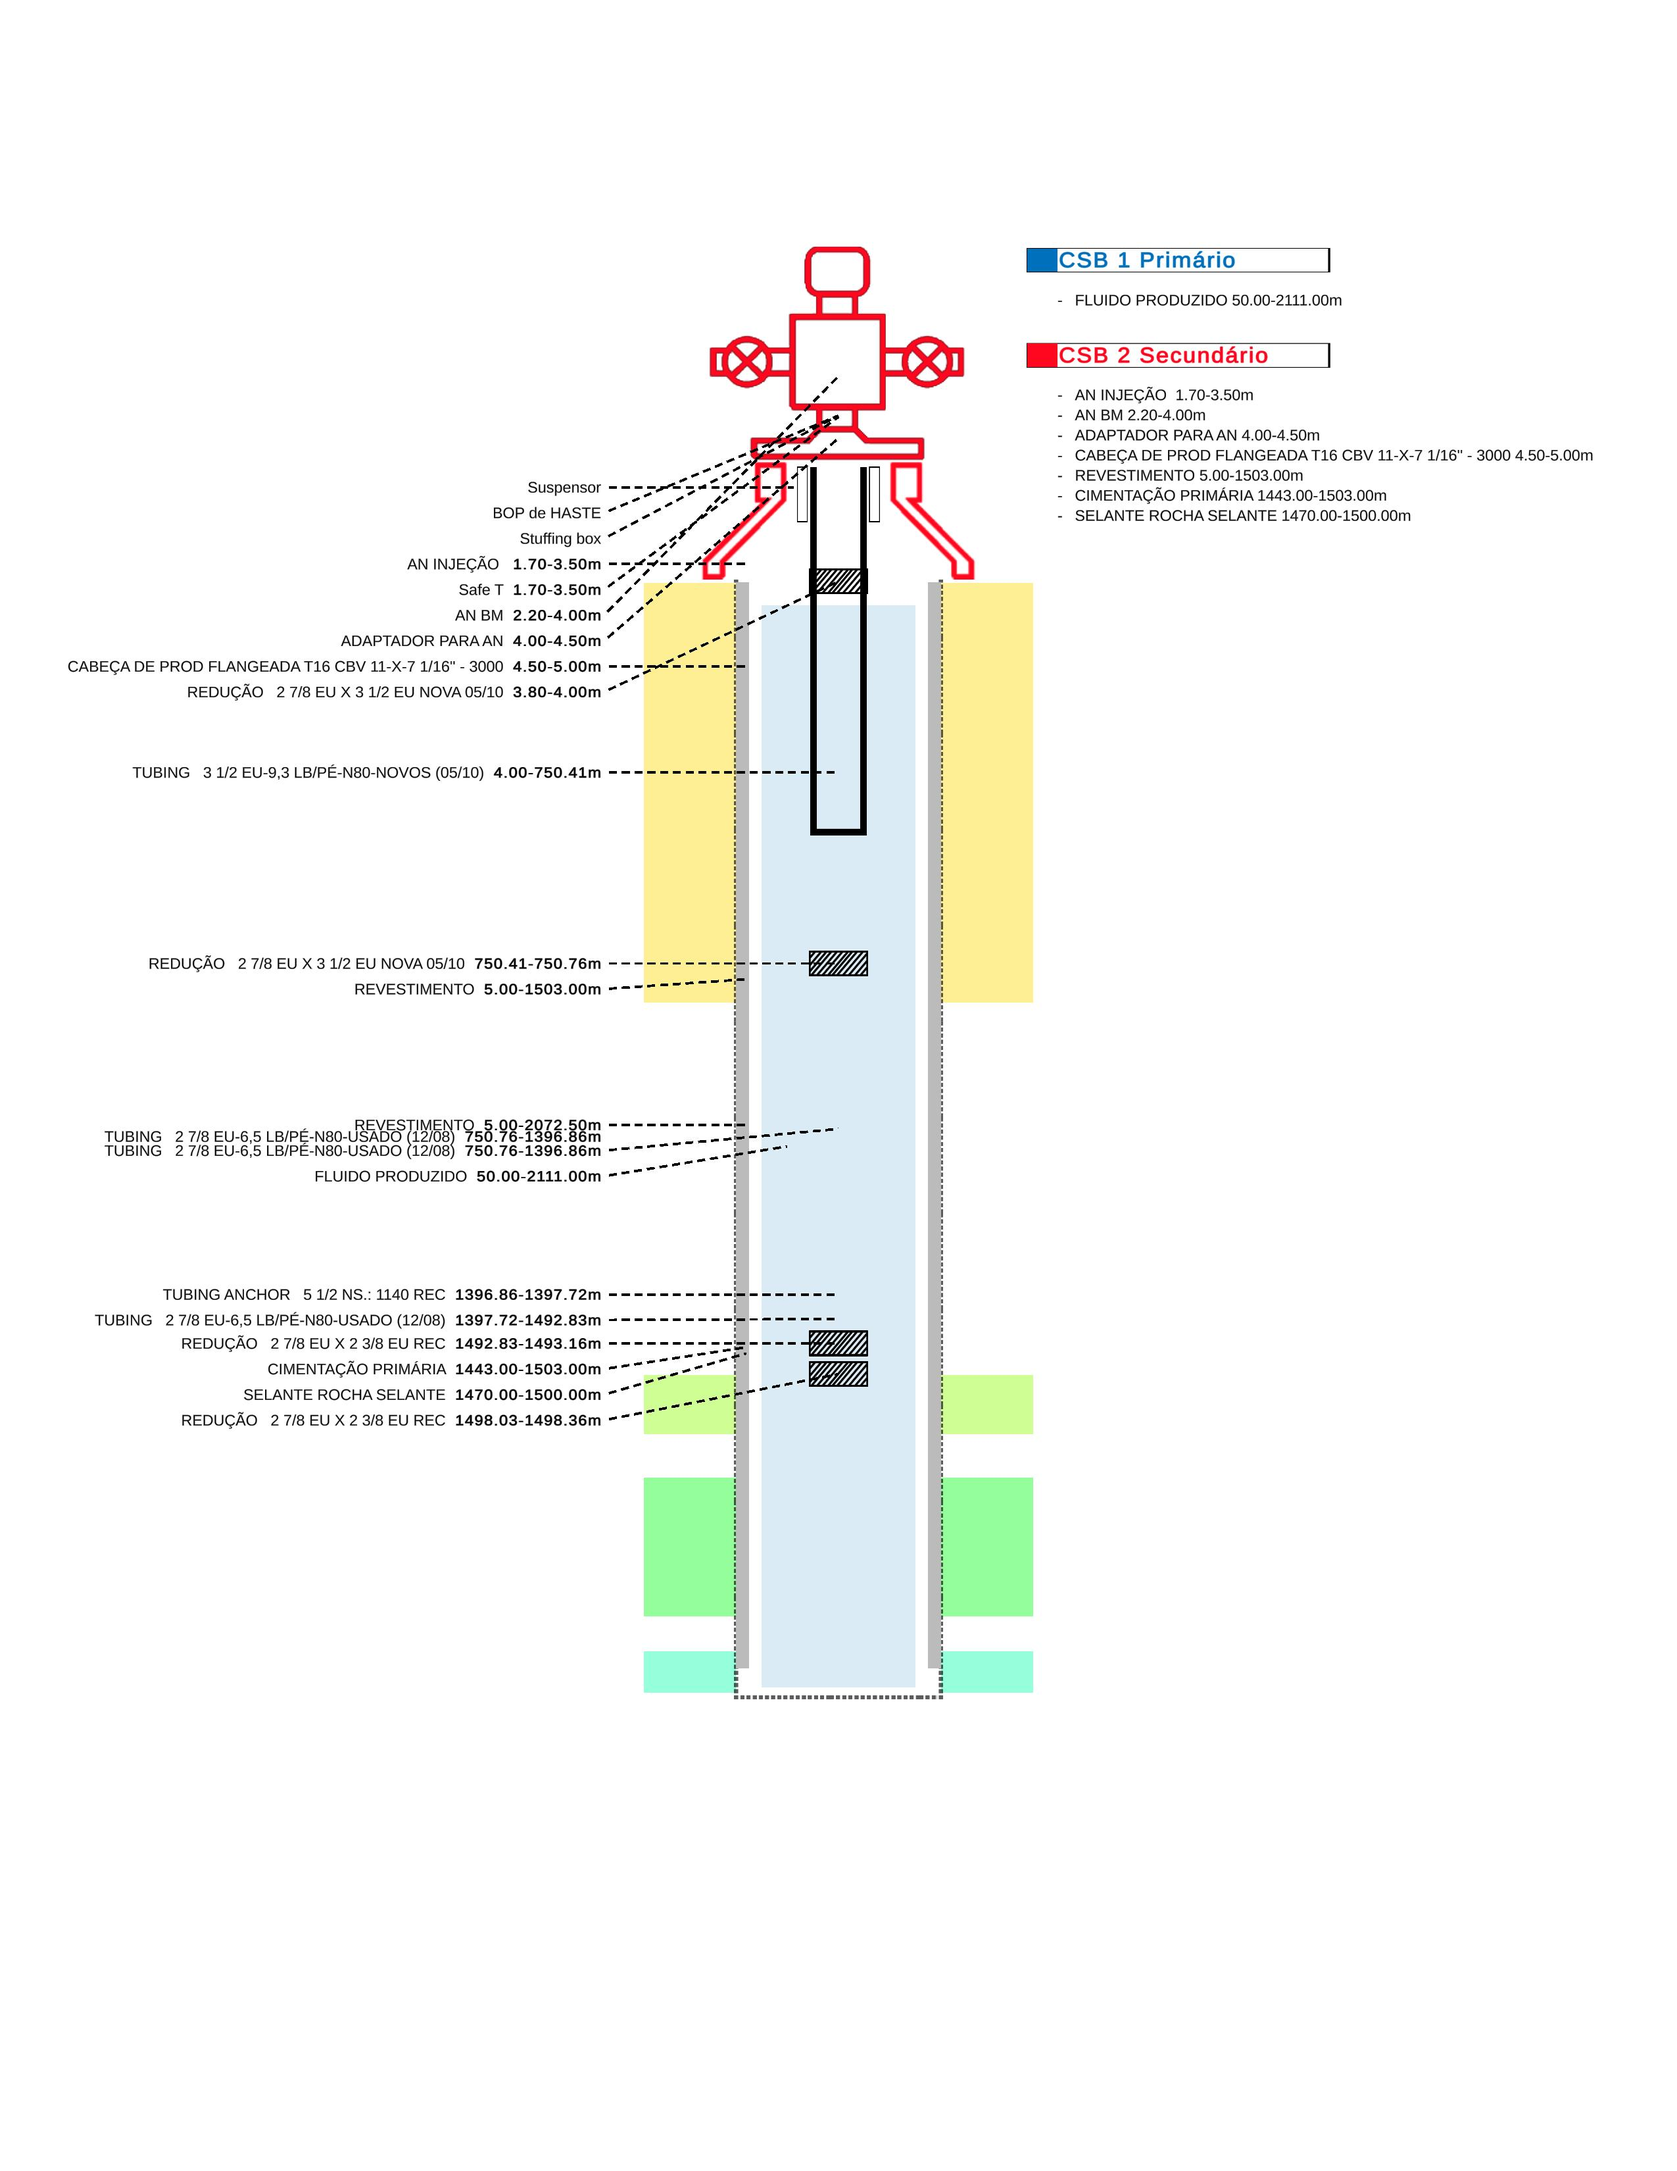
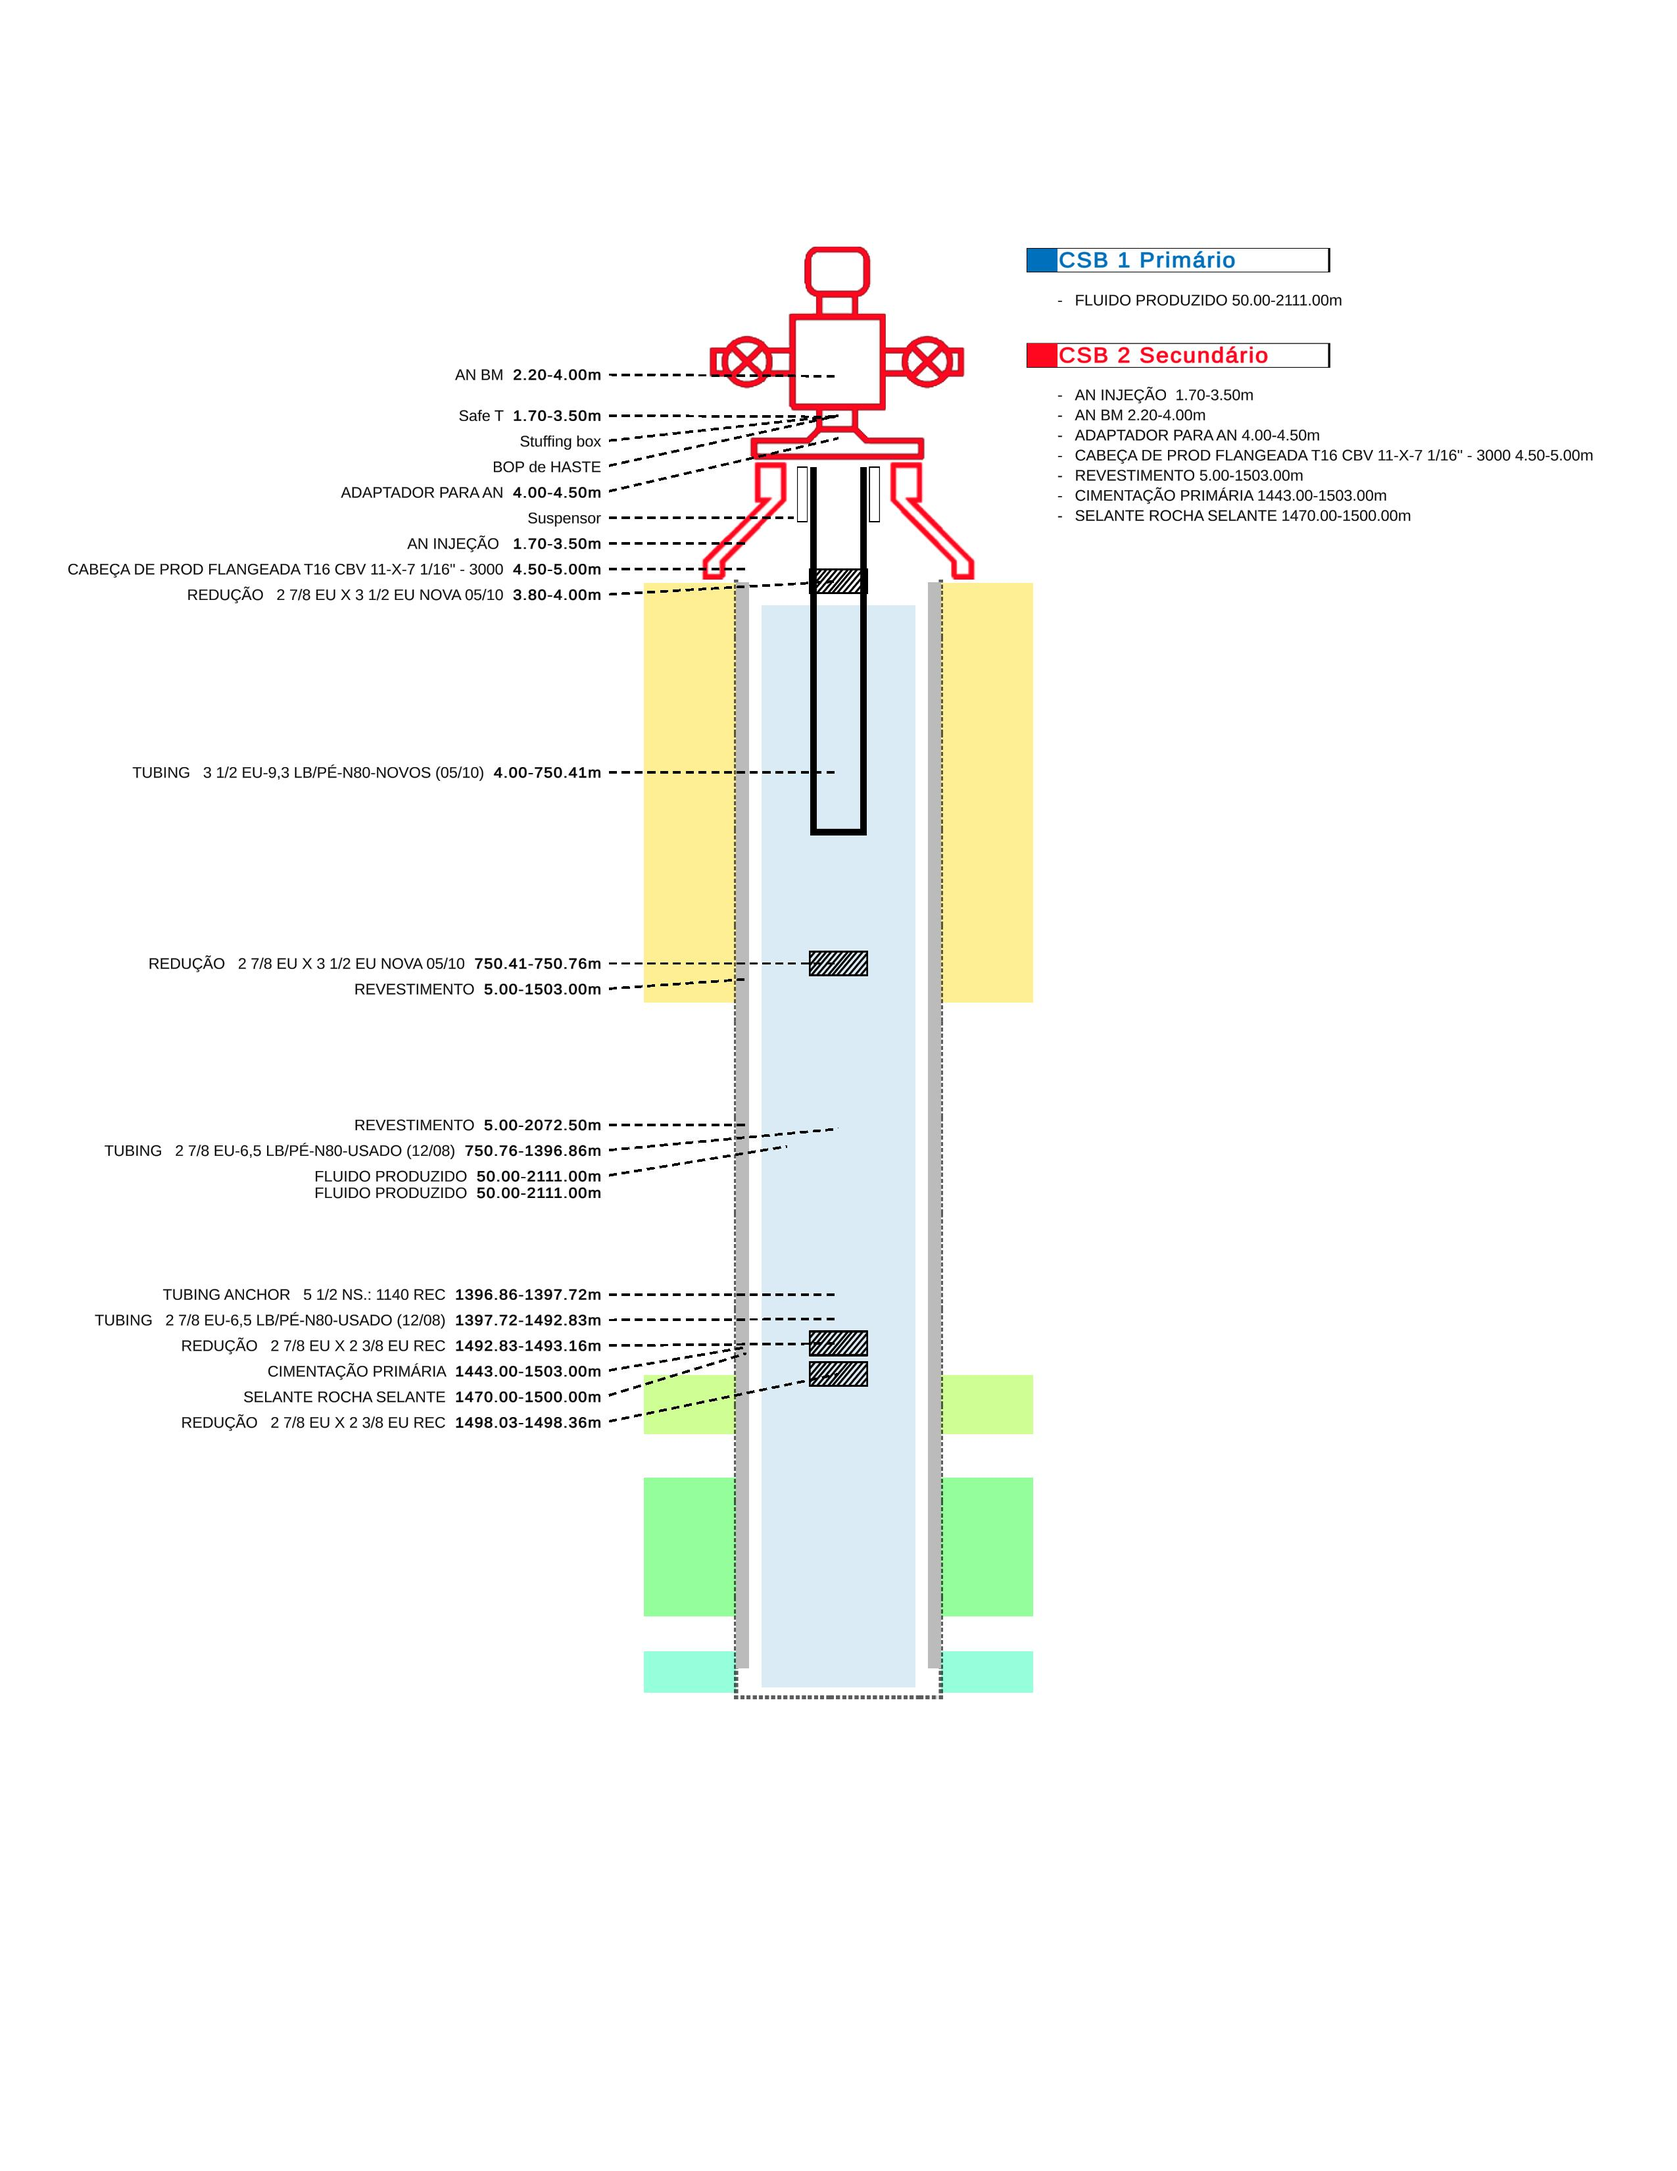
Straight Line to part

Changed region(s): [[0.1239, 0.1873, 0.4957, 0.3121], [0.1549, 0.593, 0.4027, 0.6555], [0.1239, 0.593, 0.1549, 0.6242]]

diff --git a/Assets/Source/Logic/Scripts/Util/DrawOrder.cs b/Assets/Source/Logic/Scripts/Util/DrawOrder.cs
@@ -1,0 +1,37 @@
+using System;
+using System.Collections;
+using System.Collections.Generic;
+using UnityEngine;
+
+public class DrawOrder : MonoBehaviour
+{
+    static List<string> surfaceKkeys = new List<string> { "surface_tree", "safe_t", "stuffing_box", "bop_haste", "adapter", "tubing_hanger", "wellhead" };
+
+    public static bool IsFromSurface (string key)
+    {
+        return surfaceKkeys.Contains(key);
+    }
+
+    public static int GetGreater(string keyA, string keyB)
+    {
+        int keyAIndex = surfaceKkeys.IndexOf(keyA);
+        int keyBIndex = surfaceKkeys.IndexOf(keyB);
+
+        if (keyAIndex == -1)
+            keyAIndex = surfaceKkeys.Count + 1;
+
+        if (keyBIndex == -1)
+            keyBIndex = surfaceKkeys.Count + 1;
+
+        if (keyAIndex == -1 && keyBIndex == -1)
+            return 0;
+
+        if (keyAIndex > keyBIndex)
+            return 1;
+
+        if (keyAIndex < keyBIndex)
+            return -1;
+
+        return 0;
+    }
+}

diff --git a/Assets/Source/Logic/Scripts/UIGenerator.cs b/Assets/Source/Logic/Scripts/UIGenerator.cs
@@ -77,6 +77,17 @@ public partial class UIGenerator : MonoBehaviour
         
         canvasRight.gameObject.SetActive(schematic._isDiagram);
 
+        List<SchematicItem> surfaceSchematicItem = schematicItems.FindAll((item) => DrawOrder.IsFromSurface(item.element.Key));
+
+        surfaceSchematicItem.Sort((a, b) =>
+        {
+            return DrawOrder.GetGreater(a.element.Key, b.element.Key);
+        });
+
+        schematicItems.RemoveAll((item) => DrawOrder.IsFromSurface(item.element.Key));
+
+        schematicItems.InsertRange(0, surfaceSchematicItem);
+
         foreach (SchematicItem sItem in schematicItems)
         {
             UITextBlockLeft textBlock = null;
